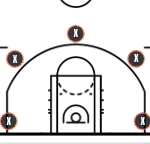
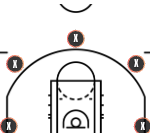
Update volume workout assets and preview components
Replit-Commit-Author: Agent

Changed region(s): [[0.0, 0.1504, 1.0, 1.0], [0.4, 0.0, 0.6133, 0.1203]]

diff --git a/client/src/pages/training-log.tsx b/client/src/pages/training-log.tsx
@@ -101,7 +101,7 @@ import { Label } from "@/components/ui/label";
 import { Progress } from "@/components/ui/progress";
 import { countSavedWorkouts, getSavedWorkoutLimit, isAtSavedWorkoutLimit } from "@shared/workout-limits";
 import { DAY_TWO_RANGE_WORKOUT_ID, dayTwoWorkoutArt, dayTwoWorkoutTotals } from "@/lib/day-two-workout-art";
-import { DAY_THREE_VOLUME_WORKOUT_ID, volumeWorkoutArt, volumeWorkoutDrills } from "@/lib/day-three-workout-art";
+import { DAY_THREE_VOLUME_WORKOUT_ID, volumeWorkoutArt, volumeWorkoutCardArt, volumeWorkoutDrills } from "@/lib/day-three-workout-art";
 
 type DrillMetricWithTemplate = DrillMetric & { template: MetricTemplate };
 
@@ -1101,6 +1101,7 @@ export default function TrainingLogPage() {
     setActiveWorkoutName(drill.title);
     setWorkoutMode("track");
     setQuickCompletedDrillIds(new Set());
+    setTrackedEntryIndexes(new Set());
     setWorkoutEntries(entries);
     setWorkoutInProgress(true);
     setActiveView("workout");
@@ -1496,6 +1497,7 @@ export default function TrainingLogPage() {
         setWorkoutStartTime(null);
         setDrillStartTimes({});
         setQuickCompletedDrillIds(new Set());
+        setTrackedEntryIndexes(new Set());
         setWorkoutMode("track");
         setShareSessionId(bulkRes?.ok ? sessionId : null);
         setShowFavoriteDialog(activeWorkoutTemplateId !== DAY_THREE_VOLUME_WORKOUT_ID);
@@ -1602,6 +1604,7 @@ export default function TrainingLogPage() {
     setWorkoutStartTime(null);
     setDrillStartTimes({});
     setQuickCompletedDrillIds(new Set());
+    setTrackedEntryIndexes(new Set());
     setWorkoutMode("track");
     setActiveWorkoutTemplateId(null);
     setActiveWorkoutName("Training session");
@@ -1719,7 +1722,7 @@ export default function TrainingLogPage() {
         ? volumeWorkoutDrills[index]?.total ?? `${entry.plannedReps ?? ""} shots`
         : `${formatCategory(entry.drill.category || "")} · ${entry.drill.difficulty}`,
     complete: workoutMode === "track" ? trackedDrillIds.has(entry.drillId) : quickCompletedDrillIds.has(entry.drillId),
-    image: isDayTwoWorkout ? dayTwoWorkoutArt[index] : isDayThreeWorkout ? volumeWorkoutArt[index] : undefined,
+    image: isDayTwoWorkout ? dayTwoWorkoutArt[index] : isDayThreeWorkout ? index === 5 ? volumeWorkoutCardArt : volumeWorkoutArt[index] : undefined,
   }));
   const renderTrackControls = (drillId: string) => {
     const rows = workoutEntries
@@ -3062,12 +3065,13 @@ export default function TrainingLogPage() {
       </Dialog>
 
       {/* Active Workout View — full screen takeover */}
-      {activeView === "workout" && workoutInProgress && workoutMode === "complete" && (
+      {activeView === "workout" && workoutInProgress && (
         <QuickCompleteWorkout
           workoutName={activeWorkoutName}
           drills={quickCompleteDrills}
           elapsed={workoutElapsed}
           saving={isSavingWorkout}
+          mode={workoutMode}
           isDayTwo={isDayTwoWorkout}
           onCancel={cancelWorkout}
           onToggle={(drillId) => {
@@ -3082,11 +3086,14 @@ export default function TrainingLogPage() {
             const drill = quickWorkoutEntries.find((entry) => entry.drillId === drillId)?.drill;
             if (drill) setDrillInfoOpen(drill);
           }}
+          onQuickComplete={() => setWorkoutMode("complete")}
           onTrackStats={() => setWorkoutMode("track")}
           onSave={saveWorkout}
+          canSave={workoutMode === "track" ? workoutEntries.length > 0 : quickCompletedDrillIds.size > 0}
+          renderTrackControls={renderTrackControls}
         />
       )}
-      {activeView === "workout" && workoutInProgress && isTrackingWorkoutMode(workoutMode) && (
+      {false && activeView === "workout" && workoutInProgress && isTrackingWorkoutMode(workoutMode) && (
         <div className="fixed inset-0 z-40 overflow-y-auto bg-[#f5f4f0] text-[#181818]" data-testid="workout-fullscreen" data-workout-mode="track">
           <div className="pointer-events-none fixed inset-0 opacity-[0.16]" aria-hidden="true">
             <svg className="h-full w-full" viewBox="0 0 560 1100" preserveAspectRatio="none">

diff --git a/client/src/pages/hub.tsx b/client/src/pages/hub.tsx
@@ -1681,7 +1681,7 @@ export default function HubPage() {
                   <div className="relative flex min-h-0 flex-1 flex-col overflow-hidden px-3 pb-3 pt-3 sm:px-6 sm:pt-5">
                     <span className="pointer-events-none absolute inset-0 opacity-60" style={{ backgroundImage: "linear-gradient(135deg, transparent 0 34%, rgba(0,0,0,.035) 34% 35%, transparent 35% 65%, rgba(0,0,0,.025) 65% 66%, transparent 66%), repeating-linear-gradient(135deg, transparent 0 54px, rgba(0,0,0,.018) 55px 56px, transparent 57px 96px), radial-gradient(ellipse at top right, white, transparent 55%)" }} />
                     <div className="relative grid min-h-[190px] flex-1 grid-cols-[minmax(0,1fr)_32px] items-start gap-2 border-b-[3px] border-black pb-3 sm:min-h-[216px] sm:grid-cols-[minmax(0,1fr)_40px] sm:gap-3 sm:pb-4">
-                      <img src={volumeWorkoutCardArt} alt="Make X 3's in a Row basketball court drill" className="pointer-events-none absolute right-16 top-1/2 z-0 h-[176px] w-[198px] -translate-y-1/2 object-contain mix-blend-multiply opacity-90 sm:right-24 sm:h-[200px] sm:w-[225px]" />
+                      <img src={volumeWorkoutCardArt} alt="Make X 3's in a Row basketball court drill" className="pointer-events-none absolute right-16 top-1/2 z-0 h-[150px] w-[158px] -translate-y-1/2 object-contain mix-blend-multiply sm:right-20 sm:h-[180px] sm:w-[190px]" />
                       <span className="relative z-10 self-start max-w-[48%] min-w-0 pt-1 pr-1 sm:max-w-[55%] sm:pr-2">
                         <span className="block font-heading text-3xl font-black uppercase leading-none tracking-tight sm:text-4xl">Workout <span className="text-orange-600">#3</span></span>
                         <span className="mt-2 block font-heading text-base font-black uppercase leading-tight sm:text-lg">Volume Shooting</span>

diff --git a/client/src/components/volume-workout-preview.tsx b/client/src/components/volume-workout-preview.tsx
@@ -1,5 +1,5 @@
 import { X, ChevronRight } from "lucide-react";
-import { volumeWorkoutArt, volumeWorkoutDrills } from "@/lib/day-three-workout-art";
+import { volumeWorkoutArt, volumeWorkoutCardArt, volumeWorkoutDrills } from "@/lib/day-three-workout-art";
 
 export function VolumeWorkoutPreview({ onClose, onLogWorkout }: { onClose: () => void; onLogWorkout: () => void }) {
   return (
@@ -14,7 +14,7 @@ export function VolumeWorkoutPreview({ onClose, onLogWorkout }: { onClose: () =>
       <div className="max-h-[55dvh] space-y-3 overflow-y-auto p-4 sm:p-6">
         {volumeWorkoutDrills.map((drill, index) => (
           <article key={drill.title} className="grid grid-cols-[112px_1fr] gap-3 rounded-xl bg-white p-3 shadow-md sm:grid-cols-[165px_1fr] sm:gap-5 sm:p-4">
-            <img src={volumeWorkoutArt[index]} alt="" className="w-full self-center object-contain" />
+            <img src={index === 5 ? volumeWorkoutCardArt : volumeWorkoutArt[index]} alt="" className="w-full self-center object-contain" />
             <div className="self-center">
               <p className="font-mono text-[10px] font-black uppercase tracking-widest text-orange-600">{index === 5 ? "Streak Challenge" : `Drill #${index + 1}`}</p>
               <h3 className="font-heading text-xl font-black uppercase">{drill.title}</h3>

diff --git a/client/src/lib/day-three-workout-art.ts b/client/src/lib/day-three-workout-art.ts
@@ -4,7 +4,7 @@ import map3 from "@/assets/volume-workout-drill-3.png";
 import map4 from "@/assets/volume-workout-drill-4.png";
 import map5 from "@/assets/volume-workout-drill-5.png";
 import map6 from "@/assets/volume-workout-drill-6.png";
-import cardArt from "@/assets/volume-workout-card-art.png";
+import cardArt from "@/assets/volume-workout-card-art.svg";
 
 export const DAY_THREE_VOLUME_WORKOUT_ID = "playr1-onboarding-day3-volume-workout";
 export const volumeWorkoutArt = [map1, map2, map3, map4, map5, map6];
